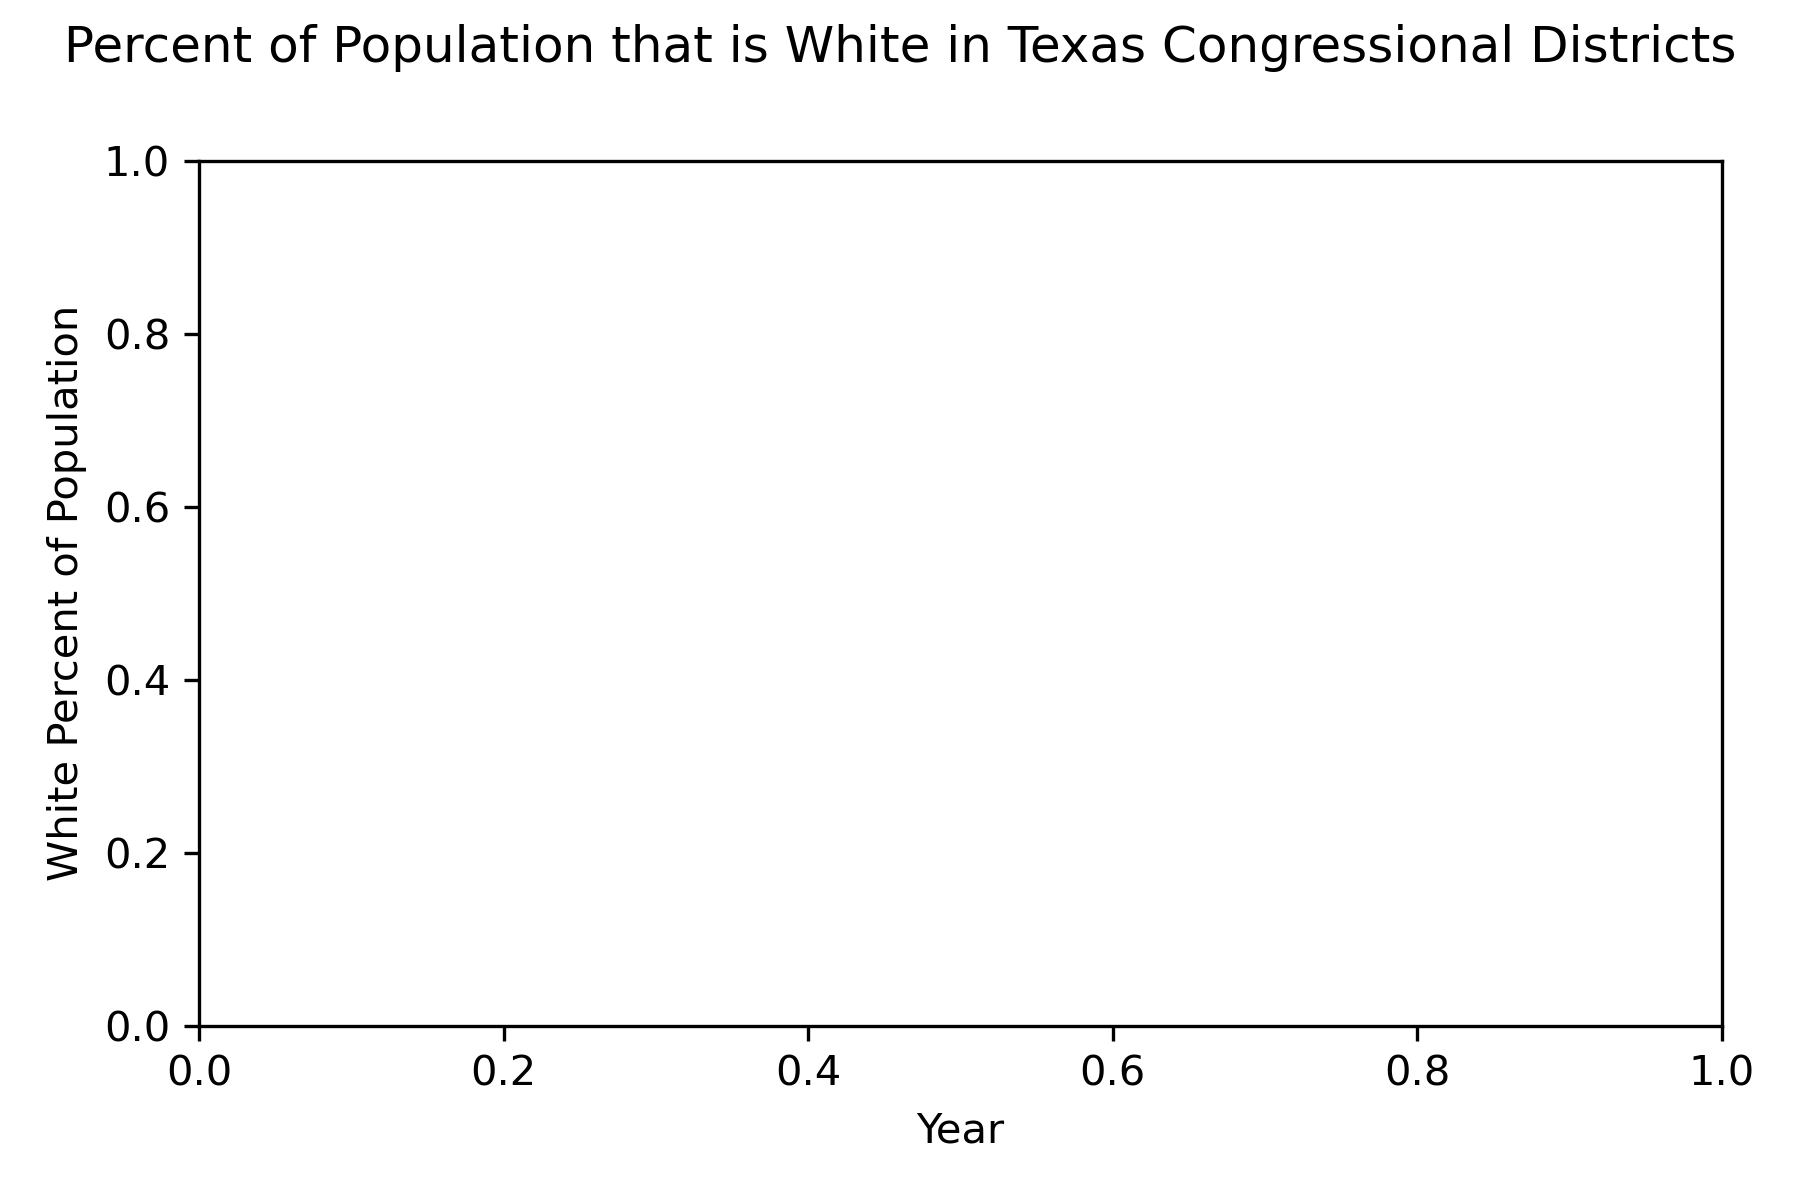
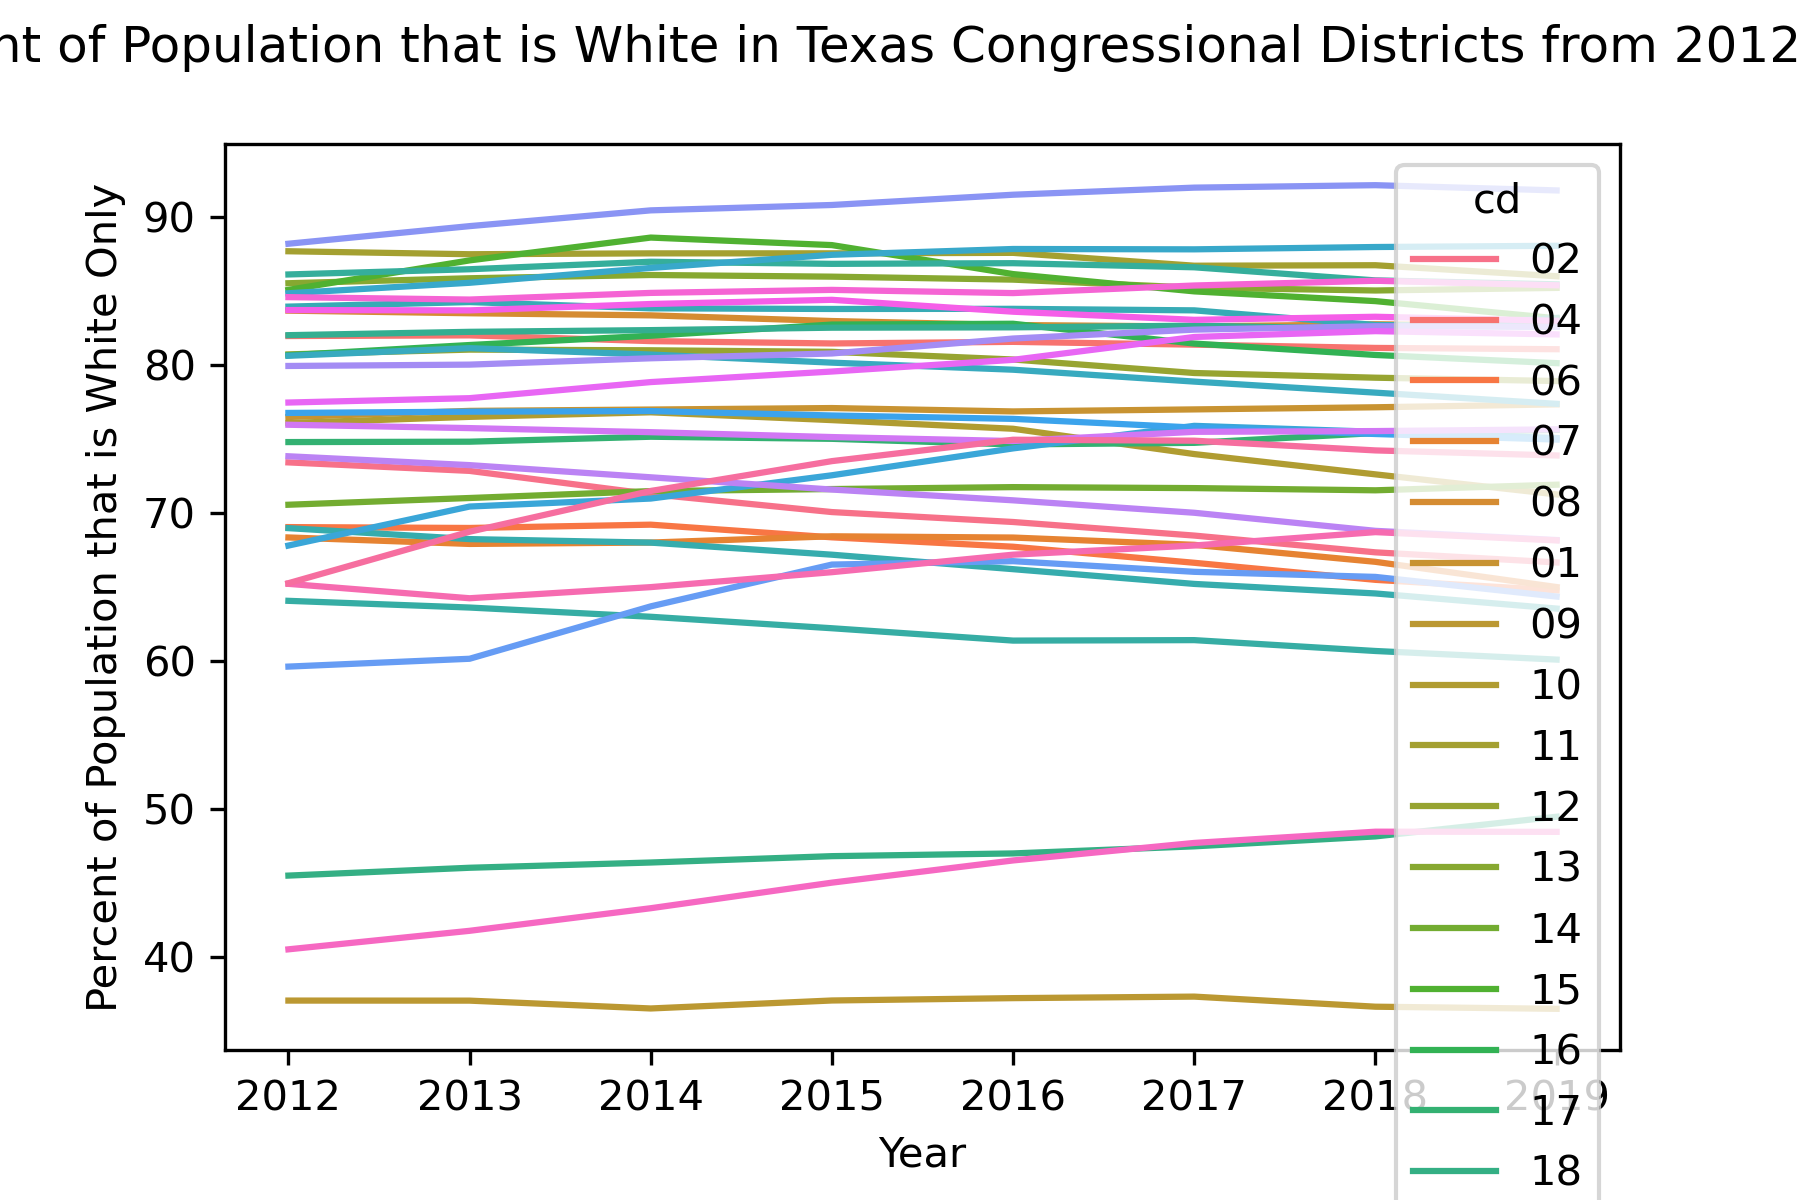
updates

diff --git a/racedatajoin.py b/racedatajoin.py
@@ -7,36 +7,65 @@ Created on Thu May  6 14:00:39 2021
 
 import pandas as pd
 
-CDpercentwhite2012 = pd.read_csv('CDpercentwhite2012.csv')
-CDpercentwhite2013 = pd.read_csv('CDpercentwhite2013.csv')
-CDpercentwhite2014 = pd.read_csv('CDpercentwhite2014.csv')
-CDpercentwhite2015 = pd.read_csv('CDpercentwhite2015.csv')
-CDpercentwhite2016 = pd.read_csv('CDpercentwhite2016.csv')
-CDpercentwhite2017 = pd.read_csv('CDpercentwhite2017.csv')
-CDpercentwhite2018 = pd.read_csv('CDpercentwhite2018.csv')
-CDpercentwhite2019 = pd.read_csv('CDpercentwhite2019.csv')
+dtype_CD = {'congressional district':str}
 
-#set index?
-#white2012.set_index('congressional district')
+CDpercentwhite2012 = pd.read_csv('CDpercentwhite2012.csv', dtype=dtype_CD)
+CDpercentwhite2013 = pd.read_csv('CDpercentwhite2013.csv', dtype=dtype_CD)
+CDpercentwhite2014 = pd.read_csv('CDpercentwhite2014.csv', dtype=dtype_CD)
+CDpercentwhite2015 = pd.read_csv('CDpercentwhite2015.csv', dtype=dtype_CD)
+CDpercentwhite2016 = pd.read_csv('CDpercentwhite2016.csv', dtype=dtype_CD)
+CDpercentwhite2017 = pd.read_csv('CDpercentwhite2017.csv', dtype=dtype_CD)
+CDpercentwhite2018 = pd.read_csv('CDpercentwhite2018.csv', dtype=dtype_CD)
+CDpercentwhite2019 = pd.read_csv('CDpercentwhite2019.csv', dtype=dtype_CD)
 
-# Add percent of population that was white in the congressional districts in each year
-CDpercentwhite2012['white2013'] = CDpercentwhite2013['percent_white']
-CDpercentwhite2012['white2014'] = CDpercentwhite2014['percent_white']
-CDpercentwhite2012['white2015'] = CDpercentwhite2015['percent_white']
-CDpercentwhite2012['white2016'] = CDpercentwhite2016['percent_white']
-CDpercentwhite2012['white2017'] = CDpercentwhite2017['percent_white']
-CDpercentwhite2012['white2018'] = CDpercentwhite2018['percent_white']
-CDpercentwhite2012['white2019'] = CDpercentwhite2019['percent_white']
+CDpercentwhite2012.set_index('congressional district', inplace=True)
+CDpercentwhite2013.set_index('congressional district', inplace=True)
+CDpercentwhite2014.set_index('congressional district', inplace=True)
+CDpercentwhite2015.set_index('congressional district', inplace=True)
+CDpercentwhite2016.set_index('congressional district', inplace=True)
+CDpercentwhite2017.set_index('congressional district', inplace=True)
+CDpercentwhite2018.set_index('congressional district', inplace=True)
+CDpercentwhite2019.set_index('congressional district', inplace=True)
 
-#drop other columns?
+# Create dataframe with percentages of population that were white in the 
+# congressional districts in each year.
+
+white = pd.DataFrame()
+white['2012'] = CDpercentwhite2012['percent_white']
+white['2013'] = CDpercentwhite2013['percent_white']
+white['2014'] = CDpercentwhite2014['percent_white']
+white['2015'] = CDpercentwhite2015['percent_white']
+white['2016'] = CDpercentwhite2016['percent_white']
+white['2017'] = CDpercentwhite2017['percent_white']
+white['2018'] = CDpercentwhite2018['percent_white']
+white['2019'] = CDpercentwhite2019['percent_white']
+
+white = white.stack()
+white = white.reset_index()
+white.columns = ['cd','year','w%']
+
+
+#save to csv
+
+#CDpercentwhite2012['white2014'] = CDpercentwhite2014['percent_white']
+#CDpercentwhite2012['white2015'] = CDpercentwhite2015['percent_white']
+#CDpercentwhite2012['white2016'] = CDpercentwhite2016['percent_white']
+#CDpercentwhite2012['white2017'] = CDpercentwhite2017['percent_white']
+#CDpercentwhite2012['white2018'] = CDpercentwhite2018['percent_white']
+#CDpercentwhite2012['white2019'] = CDpercentwhite2019['percent_white']
+
+#drop other columns? 
+#which congressional districts do I want to select?
 
 #%%
 
 import matplotlib.pyplot as plt
+import seaborn as sns
 
-fig, ax1 = plt.subplots()
-fig.suptitle("Percent of Population that is White in Texas Congressional Districts")
-ax1.set_xlabel("Year")
-ax1.set_ylabel("White Percent of Population")
+fig, ax = plt.subplots()
+sns.lineplot(x = "year", y = "w%", data=white, hue='cd', ax=ax)
+fig.suptitle("Percent of Population that is White in Texas Congressional Districts from 2012-2019")
+ax.set_xlabel("Year")
+ax.set_ylabel("Percent of Population that is White Only")
 fig.tight_layout()
 fig.savefig("CDpercentwhite.png", dpi=300)

diff --git a/other.py b/other.py
@@ -32,3 +32,13 @@ pct_by_bin[bars].plot.bar(ax=ax1)
 
 #%%
 
+pop = pd.DataFrame(columns = colnames, data = datarows)
+
+new_names = pop.rename( {"B01001_001E":"pop", "zip code tabulation area":"zip"}, axis='columns')
+
+new_names = new_names.set_index("zip")
+new_names.to_csv("pop.csv")
+
+percent_white = percent_white.set_index("congressional district")
+#%%
+trim = trim.drop("_merge", axis='columns') 
